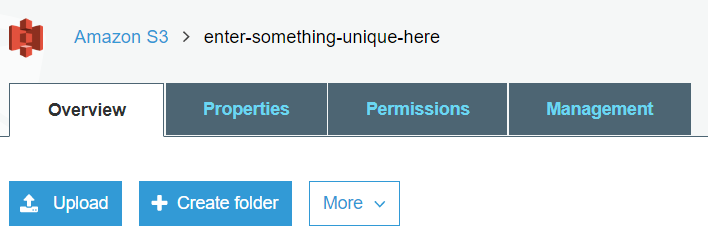
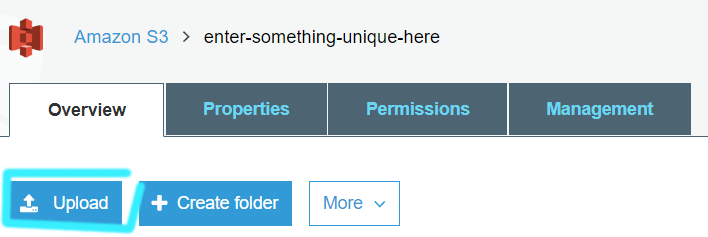
upload stuff

Changed region(s): [[0.0, 0.7089, 0.2175, 1.0]]

diff --git a/README.md b/README.md
@@ -228,7 +228,7 @@ Well that was quick...
 
 ## Lambda Configuration
 
-Amazon Lambda is a super rad cloud compute platform that will scale to any amount of demand you throw at it. For our small use case, it's just a simple to use platform that will run our python script.
+Amazon Lambda is a super rad cloud compute platform that will scale to any amount of demand you throw at it. For our small use case, it's just a simple to use platform that will run our python script. As for the server location, select N. Virginia as it's the only AWS location that supports Alexa Skills.
 
 Create a new Lambda Function.
 
@@ -284,11 +284,15 @@ Lets set up a few S3 buckets to hold all of our datar.
 
 ![S3_create_bucket](https://github.com/jack-toast/gladexa/blob/master/images/S3_create_bucket.PNG?raw=true)
 
-#### 
+#### Bucket Creation Settings (by pane):
+1. Bucket Name must be unique, region should be closest to your Lambda server location (N. Virginia).
+2. Skippable, but useful for debugging or logging usage.
+3. You can grant access to the whole bucket here or you can do it object by object later. I've chosen this method as an example for the inherent simplicity.
+4. Should look roughly like mine. Just click *Create bucket*
 
 ![S3_create_bucket_steps](https://github.com/jack-toast/gladexa/blob/master/images/S3_create_bucket_combined.png?raw=true)
 
-
+#### Now put something in the bucket
 
 
 
